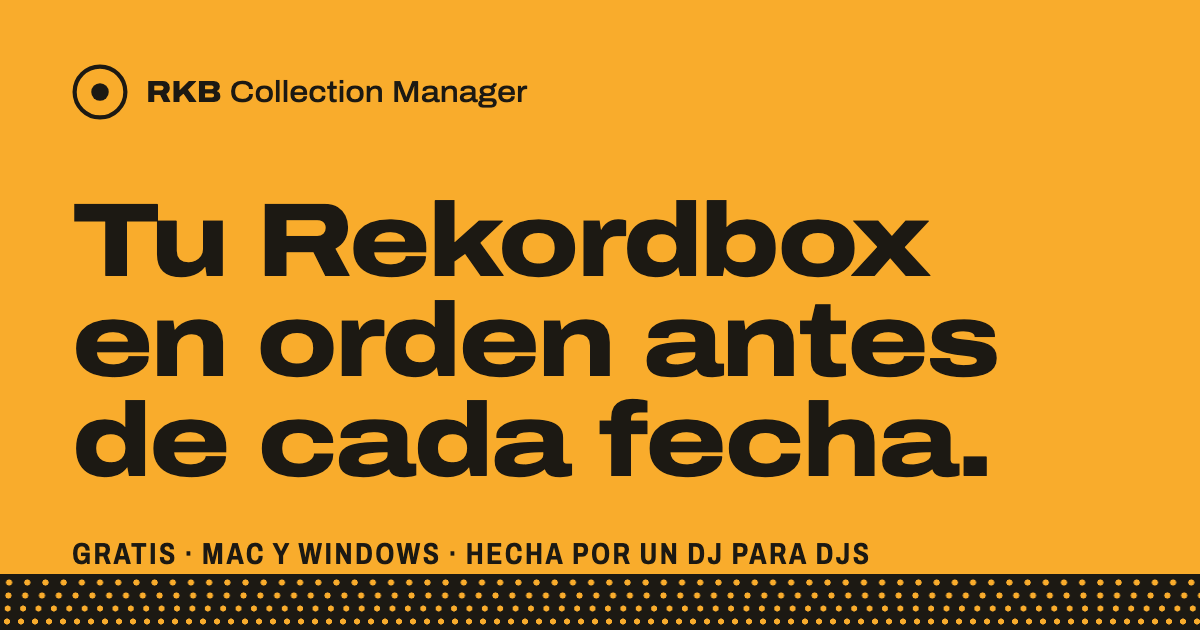
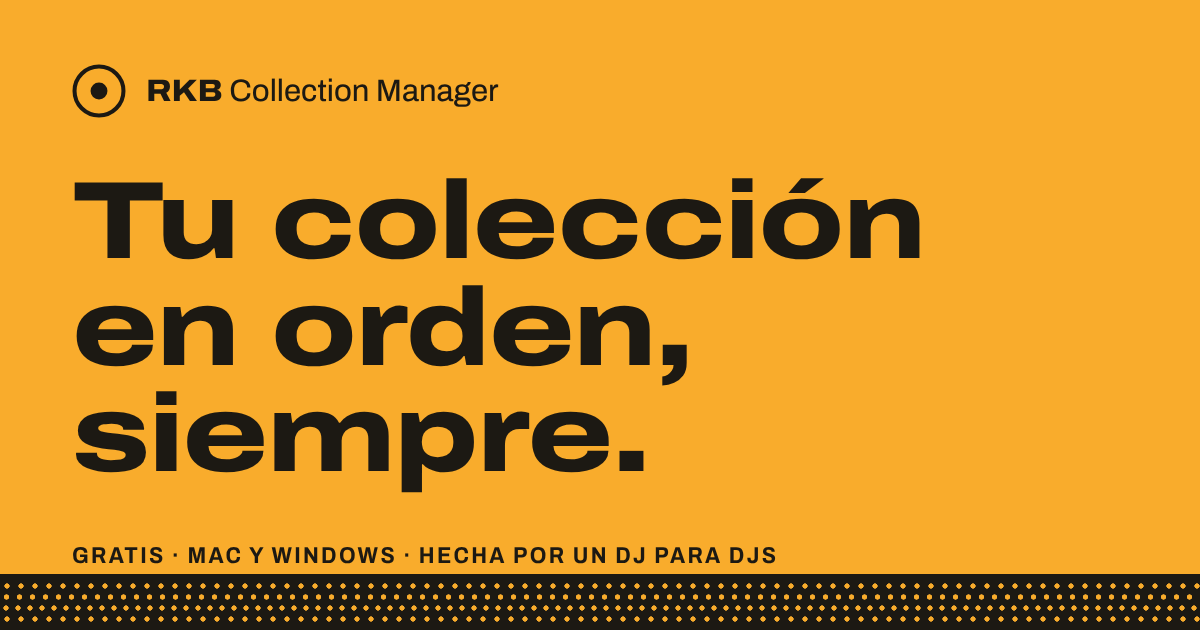
Textos nuevos, contacto, versión automática y «Lo que viene»
- Título «Tu colección en orden, siempre.» (también en la pestaña y en la
  imagen para compartir) y nueva presentación de Guido.
- Contacto: WhatsApp y Instagram en «Probala y contame»; la pregunta de
  Mac Intel lleva ahí.
- La versión y el peso de las descargas se leen de la última Release de
  kramerdj/rkb (ya estaba en 0.9 y la web decía 0.8).
- Paso 1: cuenta que arma la playlist del evento en Rekordbox y Spotify.
- Saca «Eventos tocados» de la lista de extras.
- «No requiere instalación» en lugar de «Se instala en dos minutos».
- Nueva sección «Lo que viene»: inglés, YouTube Music y la Cartelera.

Claude-Session: https://claude.ai/code/session_01P6ZXiUsiLTzgm3NEX2Gjb6

Changed region(s): [[0.0617, 0.2714, 0.8325, 0.7841], [0.0, 0.8444, 1.0, 0.9952], [0.0617, 0.1206, 0.4317, 0.2111]]

diff --git a/index.html b/index.html
@@ -3,13 +3,13 @@
 <head>
 <meta charset="utf-8">
 <meta name="viewport" content="width=device-width, initial-scale=1">
-<title>RKB Collection Manager · Tu Rekordbox en orden antes de cada fecha</title>
+<title>RKB Collection Manager · Tu colección en orden, siempre</title>
 <meta name="description" content="App gratuita para Mac y Windows que ordena tu colección de Rekordbox: listas de temas, calidad real del audio, duplicados, metadata, My Tags y backups. Hecha por un DJ para DJs.">
 <meta name="theme-color" content="#F5A524">
 <meta property="og:type" content="website">
 <meta property="og:locale" content="es_AR">
 <meta property="og:title" content="RKB Collection Manager">
-<meta property="og:description" content="Tu Rekordbox en orden antes de cada fecha. Gratis, para Mac y Windows.">
+<meta property="og:description" content="Tu colección en orden, siempre. Gratis, para Mac y Windows.">
 <meta property="og:url" content="https://kramerdj.github.io/">
 <meta property="og:image" content="https://kramerdj.github.io/og.png">
 <meta name="twitter:card" content="summary_large_image">
@@ -39,9 +39,9 @@
   </nav>
 
   <div class="hero-texto envoltura">
-    <p class="placa-dato">Beta <span data-version>0.8</span> <i></i> Mac y Windows <i></i> Gratis</p>
-    <h1>Tu Rekordbox en orden antes de cada fecha.</h1>
-    <p class="bajada">Soy Guido, KRAMER DJ. Armé esta app para preparar mis propios eventos: cruzar la lista del cliente con mi colección, revisar la calidad de lo que bajo, sacar duplicados y llegar con todo en su lugar. Ahora la comparto con colegas.</p>
+    <p class="placa-dato">Beta <span data-version>0.9</span> <i></i> Mac y Windows <i></i> Gratis</p>
+    <h1>Tu colección en orden, siempre.</h1>
+    <p class="bajada">Soy Guido, KRAMER DJ, y creé esta app para simplificar la tarea de actualizar y mantener los tracks en orden, siempre listos para tu próximo evento.</p>
     <div class="acciones" data-descargas>
       <a class="boton tinta" data-so="mac" href="https://github.com/kramerdj/rkb/releases/latest/download/RKB-Collection-Manager-Mac.zip">Descargar para Mac</a>
       <a class="boton tinta" data-so="windows" href="https://github.com/kramerdj/rkb/releases/latest/download/RKB-Collection-Manager-Windows.zip">Descargar para Windows</a>
@@ -120,7 +120,7 @@
         <div class="paso-texto">
           <span class="numero" aria-hidden="true">1</span>
           <h3>Lista de temas</h3>
-          <p>Pegás la lista que te mandó el cliente, o el link de su playlist de Spotify, YouTube Music o Deezer. La app la cruza con tu colección y te dice qué tenés y qué falta bajar, con links de búsqueda en Beatsource, Beatport, iTunes y Bandcamp.</p>
+          <p>Pegás la lista que te mandó el cliente, o el link de su playlist de Spotify, YouTube Music o Deezer. La app la cruza con tu colección y te dice qué tenés y qué falta bajar, con links de búsqueda en Beatsource, Beatport, iTunes y Bandcamp. Con un clic arma la playlist del evento en Rekordbox y también en Spotify.</p>
         </div>
         <div class="pantalla frag" role="img" aria-label="Ejemplo del paso 1: una lista de 45 temas comparada con la colección. 36 ya están, 2 son posibles coincidencias y 7 faltan.">
           <div class="frag-cab"><strong>Casamiento Sofi y Tomi</strong><span>45 temas</span></div>
@@ -205,10 +205,18 @@
     <div class="ademas">
       <h3>Y fuera de los cinco pasos</h3>
       <dl>
-        <div><dt>Eventos tocados</dt><dd>Qué pasaste en cada fecha, según el historial de Rekordbox, y qué temas no tocaste nunca.</dd></div>
         <div><dt>Duplicados</dt><dd>Encuentra las copias del mismo tema y te muestra cues, playlists y calidad de cada una para elegir cuál queda.</dd></div>
         <div><dt>Nombres prolijos</dt><dd>Ordena los nombres de archivo de toda la colección con un mismo criterio.</dd></div>
         <div><dt>Backup y restauración</dt><dd>Copia completa de la base y de tu música, pensada para un disco externo o para mudarte de computadora.</dd></div>
+      </dl>
+    </div>
+
+    <div class="ademas proximamente">
+      <h3>Lo que viene</h3>
+      <dl>
+        <div><dt>En inglés</dt><dd>La app también en inglés, para colegas de cualquier lado.</dd></div>
+        <div><dt>YouTube Music y más</dt><dd>Armar la playlist del evento también en YouTube Music, y exportarla para pasarla a otras plataformas.</dd></div>
+        <div><dt>Cartelera para DJs</dt><dd>Un lugar dentro de la app para anunciar fiestas, cursos, equipos en venta y búsquedas, y ver los de tu zona.</dd></div>
       </dl>
     </div>
   </div>
@@ -233,7 +241,7 @@
 <section class="instalar" id="instalar">
   <div class="envoltura">
     <div class="intro">
-      <h2>Se instala en dos minutos. El primer arranque tiene un truco.</h2>
+      <h2>No requiere instalación. El primer arranque tiene un truco.</h2>
       <p>La app es gratuita y todavía no está registrada en Apple ni en Microsoft, así que el sistema la frena la primera vez que la abrís. Es un solo aviso, y se pasa así.</p>
     </div>
 
@@ -246,7 +254,7 @@
       <div class="sistema" id="instalar-mac" role="tabpanel" aria-labelledby="tab-mac">
         <div class="sistema-cab">
           <h3>En Mac</h3>
-          <p>Chip Apple (M1 o más nuevo), macOS 12 o posterior. <span class="peso">49 MB</span></p>
+          <p>Chip Apple (M1 o más nuevo), macOS 12 o posterior. <span class="peso" data-peso="Mac">56 MB</span></p>
           <a class="boton" href="https://github.com/kramerdj/rkb/releases/latest/download/RKB-Collection-Manager-Mac.zip">Descargar para Mac</a>
         </div>
         <ol class="procedimiento">
@@ -260,7 +268,7 @@
       <div class="sistema" id="instalar-windows" role="tabpanel" aria-labelledby="tab-windows">
         <div class="sistema-cab">
           <h3>En Windows</h3>
-          <p>Windows 10 u 11 de 64 bits.</p>
+          <p>Windows 10 u 11 de 64 bits. <span class="peso" data-peso="Windows">82 MB</span></p>
           <a class="boton" href="https://github.com/kramerdj/rkb/releases/latest/download/RKB-Collection-Manager-Windows.zip">Descargar para Windows</a>
         </div>
         <ol class="procedimiento">
@@ -283,7 +291,10 @@
     </div>
     <div class="contame-texto">
       <p>Estoy juntando opiniones de colegas antes de abrirla a más gente. Lo que no entendiste, lo que te falta, lo que se rompió: todo sirve.</p>
-      <a class="boton" data-whatsapp hidden>Escribime por WhatsApp</a>
+      <div class="contactos">
+        <a class="boton" data-whatsapp hidden>Escribime por WhatsApp</a>
+        <a class="boton otro" href="https://www.instagram.com/guidi.kramer/" rel="noopener">Instagram @guidi.kramer</a>
+      </div>
       <p class="chica">Si algo falla, en la app andá a Acerca de → «Reportar un problema». Te arma un archivo en Descargas para que me lo mandes. No incluye tu música ni tu base de Rekordbox.</p>
     </div>
   </div>
@@ -298,7 +309,7 @@
       <details><summary>¿Es gratis?</summary><p>Sí. Esta beta es gratis y el código es libre.</p></details>
       <details><summary>¿Me puede romper la colección?</summary><p>La app hace un backup antes de cada cambio y casi todo se puede deshacer. Igual es una beta: hacé tu propia copia de seguridad en Rekordbox antes de empezar.</p></details>
       <details><summary>¿Por qué la compu dice que no es segura?</summary><p>Porque todavía no está firmada con Apple ni con Microsoft. No quiere decir que tenga un problema: quiere decir que el sistema no conoce al que la hizo. En <a href="#instalar">Instalación</a> están los pasos para abrirla igual.</p></details>
-      <details><summary>¿Anda en Macs con Intel?</summary><p>Por ahora no: sólo en Macs con chip Apple (M1 o más nuevo). Si tenés una Intel, avisame, así sé cuánta gente la necesita.</p></details>
+      <details><summary>¿Anda en Macs con Intel?</summary><p>Por ahora no: sólo en Macs con chip Apple (M1 o más nuevo). Si tenés una Intel, <a href="#contame">avisame</a>, así sé cuánta gente la necesita.</p></details>
       <details><summary>¿Qué versión de Rekordbox necesito?</summary><p>Rekordbox 6 o 7.</p></details>
       <details><summary>¿Necesita internet?</summary><p>Sólo para buscar metadata y carátulas y para leer playlists de Spotify, YouTube Music o Deezer. Todo lo demás funciona sin conexión.</p></details>
     </div>
@@ -310,7 +321,7 @@
   <div class="envoltura">
     <div class="pie-marca">
       <svg width="44" height="44" viewBox="0 0 32 32" aria-hidden="true"><circle cx="16" cy="16" r="14.5" fill="none" stroke="currentColor" stroke-width="2.4"/><circle cx="16" cy="16" r="5" fill="currentColor"/></svg>
-      <p><b>RKB Collection Manager</b><br>Versión <span data-version>0.8</span> beta</p>
+      <p><b>RKB Collection Manager</b><br>Versión <span data-version>0.9</span> beta</p>
     </div>
     <p>Hecha por Guido · KRAMER DJ: idea, criterios y diseño de la herramienta. Programada con la asistencia de Claude, el asistente de IA de Anthropic.</p>
     <p>Software libre bajo la GNU GPL versión 3 o posterior. Se distribuye sin garantía de ningún tipo. <a href="https://github.com/kramerdj/rkb">Código fuente</a></p>

diff --git a/sitio.js b/sitio.js
@@ -1,5 +1,5 @@
-const VERSION = "0.8";
-const WHATSAPP = "";
+const VERSION = "0.9";              // se usa si no se puede consultar GitHub
+const WHATSAPP = "5491141800651";
 
 const ua = navigator.userAgent;
 const movil = /Android|iPhone|iPad|iPod/i.test(ua) || (/Macintosh/.test(ua) && navigator.maxTouchPoints > 1);
@@ -68,3 +68,18 @@ if (WHATSAPP) {
   boton.href = `https://wa.me/${WHATSAPP}?text=${encodeURIComponent("Hola Guido, probé RKB Collection Manager.")}`;
   boton.hidden = false;
 }
+
+// La versión y el peso de las descargas salen de la última versión publicada en GitHub,
+// así la página se actualiza sola cada vez que se publica una versión nueva.
+fetch("https://api.github.com/repos/kramerdj/rkb/releases/latest", { headers: { Accept: "application/vnd.github+json" } })
+  .then((r) => (r.ok ? r.json() : null))
+  .then((rel) => {
+    if (!rel || !rel.tag_name) return;
+    const version = rel.tag_name.replace(/^v/, "");
+    for (const el of document.querySelectorAll("[data-version]")) el.textContent = version;
+    for (const el of document.querySelectorAll("[data-peso]")) {
+      const archivo = (rel.assets || []).find((a) => a.name === `RKB-Collection-Manager-${el.dataset.peso}.zip`);
+      if (archivo) el.textContent = `${Math.round(archivo.size / 1e6)} MB`;
+    }
+  })
+  .catch(() => {});

diff --git a/estilos.css b/estilos.css
@@ -193,6 +193,10 @@ section{padding-block:clamp(4.5rem,10vw,9rem)}
 .ademas dl{display:grid;grid-template-columns:repeat(4,minmax(0,1fr));gap:1.75rem clamp(1.5rem,4vw,3.5rem);margin-top:1.75rem}
 .ademas dt{font-stretch:108%;font-weight:700}
 .ademas dd{margin-top:0.3rem;color:var(--tinta-suave);font-size:1rem}
+.ademas dl{grid-template-columns:repeat(3,minmax(0,1fr))}
+.contactos{display:flex;flex-wrap:wrap;gap:0.75rem}
+.boton.otro{background:none;color:var(--sobre-tinta);box-shadow:inset 0 0 0 1.5px var(--sobre-tinta-suave)}
+.boton.otro:hover{background:oklch(0.93 0.008 85 / 0.08)}
 
 .dos{display:grid;grid-template-columns:minmax(0,5fr) minmax(0,7fr);gap:clamp(2rem,6vw,6rem);align-items:start}
 .dos .intro{position:sticky;top:2.5rem}
